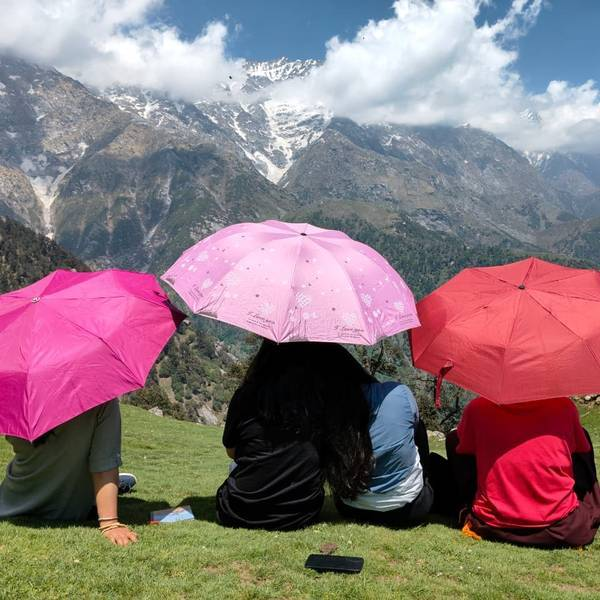
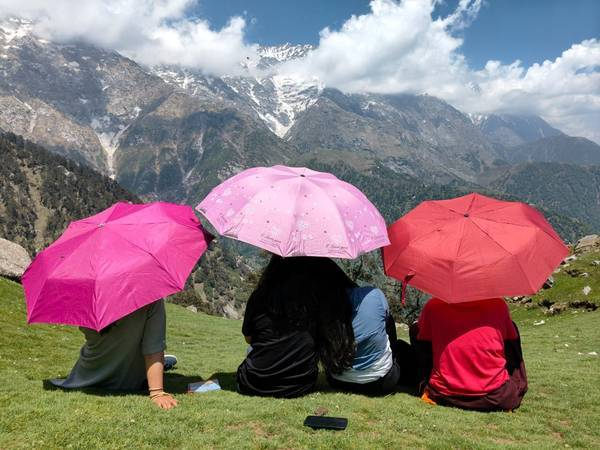
beyond images compression fix

diff --git a/compress.js b/compress.js
@@ -4,7 +4,7 @@ const path = require('path');
 
 const dirs = [
   { dir: './images/team', width: 800, height: 1000, quality: 70, maxSize: 300000, fit: 'inside' },
-  { dir: './images/beyond', width: 600, height: 600, quality: 70, maxSize: 200000, fit: 'cover' },
+  { dir: './images/beyond', width: 600, height: 600, quality: 70, maxSize: 0, fit: 'inside' },
   { dir: './images/gallery', width: 1200, height: 800, quality: 75, maxSize: 400000, fit: 'cover' },
 ];
 
